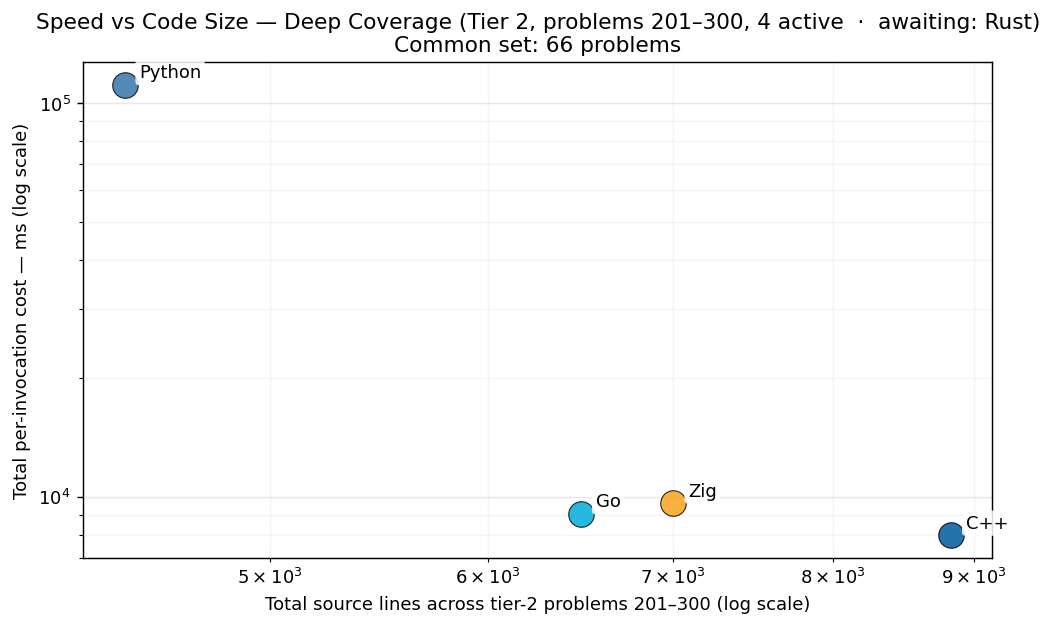
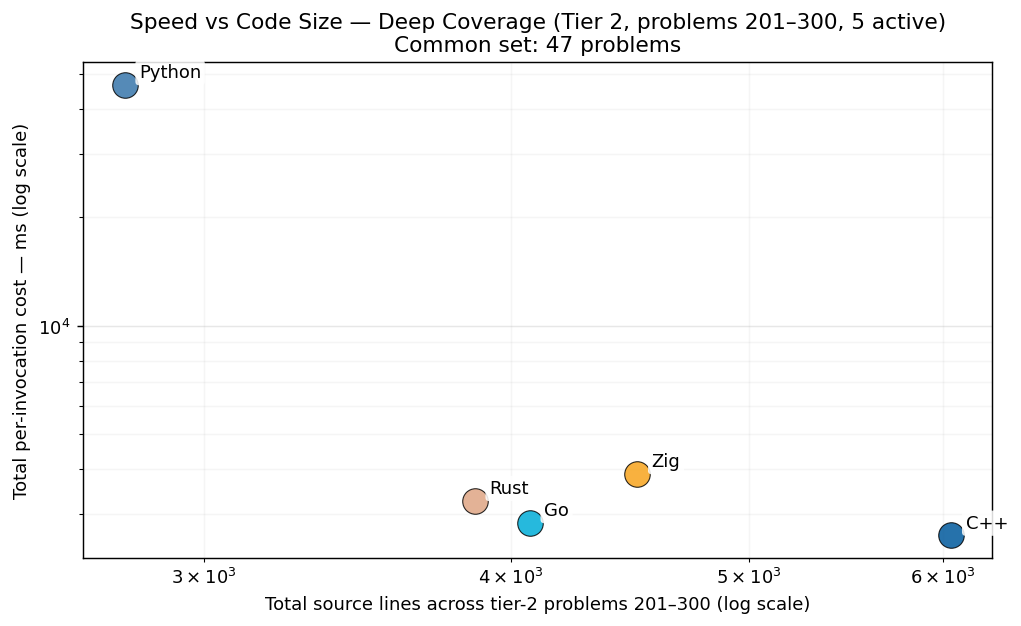
publish: +5 Rust cells (wave 3 agent F); Rust crosses 50% active threshold (51/96) — joins tier-2 ranking + charts

diff --git a/RESULTS.md b/RESULTS.md
@@ -1,6 +1,6 @@
 # Project Euler — Cross-Language Benchmarks
 
-> **Scope: 2500 in-scope cells across 300 problems × tiered languages — 2394 measured (95.8% coverage).**
+> **Scope: 2500 in-scope cells across 300 problems × tiered languages — 2399 measured (96.0% coverage).**
 > The cross-language ranking below is computed over the **199-problem common set** (problems in 1-200 where every language has a passing measurement) — the apples-to-apples Foundation comparison surface.  Per-tier rankings and coverage detail appear further below.
 > Growing carefully — each new problem and language is audited for state-leak
 > safety, verified for answer correctness, and added only when it cleanly fits the
@@ -46,18 +46,17 @@ How much code does each language need to solve these 200 Foundation problems, an
 
 Same per-invocation metric, restricted to the deeper subset of languages (C++, Go, Python, Rust, Zig) that intentionally pushed past problem 200. The other 5 Foundation languages are out of tier scope here — they're capped at 200 by the project's language-cap policy (see JOURNEY.md).
 
-### Per-Invocation Cost (Common Set, 66 of 100 problems)
-
-_Common set computed over the **4 active** tier-2 langs_ _(C++, Go, Python, Zig);_ _awaiting: Rust (below 50% coverage threshold). Common set will tighten once awaited langs reach majority coverage in tier 2._
+### Per-Invocation Cost (Common Set, 47 of 100 problems)
 
 ![Per-Invocation Cost — Tier 2](charts/per_iter_total_tier2.png)
 
-| Rank | Language | Total (66-problem common set) | Lines of code | vs Fastest |
+| Rank | Language | Total (47-problem common set) | Lines of code | vs Fastest |
 |------|----------|--------------------:|--------------:|-----------:|
-| 1 | **C++** | 7.97 s | 8,832 | 1.00× |
-| 2 | **Go** | 9.03 s | 6,485 | 1.13× |
-| 3 | **Zig** | 9.62 s | 7,005 | 1.21× |
-| 4 | **Python** | 111.27 s | 4,430 | 13.96× |
+| 1 | **C++** | 2.63 s | 6,045 | 1.00× |
+| 2 | **Go** | 2.84 s | 4,071 | 1.08× |
+| 3 | **Rust** | 3.28 s | 3,866 | 1.25× |
+| 4 | **Zig** | 3.89 s | 4,503 | 1.48× |
+| 5 | **Python** | 46.51 s | 2,784 | 17.72× |
 
 ### Speed vs Code Size
 

diff --git a/per_problem/per_problem_201-300.md b/per_problem/per_problem_201-300.md
@@ -74,18 +74,18 @@ column per language in tier-1 display order (native → managed → interpreted)
 | **p262** | 5.92 s | — | — | 5.52 s | — |
 | **p263** | 5.31 s | — | 1.88 s | 1.60 s | — |
 | **p264** | 254.91 ms | — | 264.77 ms | 307.66 ms | 11.62 s |
-| **p265** | 479.8 µs | — | 501.6 µs | 980.5 µs | 42.78 ms |
+| **p265** | 479.8 µs | 327.0 µs | 501.6 µs | 980.5 µs | 42.78 ms |
 | **p266** | 1.52 s | — | 1.43 s | 5.03 s | — |
 | **p267** | 15.1 µs | 27.8 µs | 12.5 µs | 30.4 µs | 328.2 µs |
-| **p268** | 37.80 ms | — | 24.14 ms | 35.47 ms | 2.47 s |
-| **p269** | 178.83 ms | — | 28.59 ms | 57.19 ms | 1.06 s |
+| **p268** | 37.80 ms | 24.44 ms | 24.14 ms | 35.47 ms | 2.47 s |
+| **p269** | 178.83 ms | 126.11 ms | 28.59 ms | 57.19 ms | 1.06 s |
 | **p270** | 688.8 µs | 624.6 µs | 41 ns | 704.6 µs | 16.17 ms |
 | **p271** | 100.1 µs | 118.3 µs | 42 ns | 45.9 µs | 240.1 µs |
 | **p272** | 6.43 s | — | 6.74 s | 8.03 s | — |
 | **p273** | 1.68 s | — | 1.82 s | 4.65 s | — |
-| **p274** | 97.32 ms | — | 198.65 ms | 63.87 ms | 572.57 ms |
+| **p274** | 97.32 ms | 59.00 ms | 198.65 ms | 63.87 ms | 572.57 ms |
 | **p275** | 81.69 s | — | — | — | — |
-| **p276** | 74.11 ms | — | 64.82 ms | 82.33 ms | 1.14 s |
+| **p276** | 74.11 ms | 67.66 ms | 64.82 ms | 82.33 ms | 1.14 s |
 | **p277** | 6.3 µs | 6.0 µs | 5.7 µs | 24.2 µs | 19.4 µs |
 | **p278** | 32.83 ms | — | 65.32 ms | 34.54 ms | 5.95 s |
 | **p279** | 696.04 ms | — | 930.62 ms | 707.18 ms | 5.60 s |
